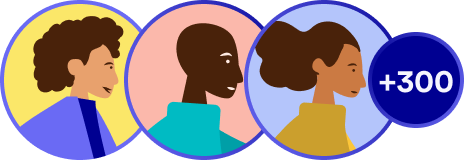
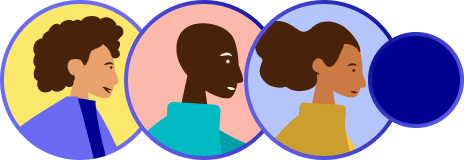
fix(client): :bug: images dynamic stats

Changed region(s): [[0.8147, 0.4375, 0.9957, 0.5938]]

diff --git a/apps/client/src/pages/mission-et-impact.tsx b/apps/client/src/pages/mission-et-impact.tsx
@@ -1,11 +1,13 @@
 import Badge from "@codegouvfr/react-dsfr/Badge";
 import Button from "@codegouvfr/react-dsfr/Button";
 import Card from "@codegouvfr/react-dsfr/Card";
-import { NextPage } from "next";
+import { GetStructureStatisticsResponse, TranslationStatisticsResponse } from "@refugies-info/api-types";
 import { useTranslation } from "next-i18next";
+import { serverSideTranslations } from "next-i18next/serverSideTranslations";
 import Image from "next/image";
 import { useEffect, useState } from "react";
 import { useInView } from "react-intersection-observer";
+import { END } from "redux-saga";
 import CommunityIlluAmbassadeurs from "~/assets/staticPages/mission-et-impact/community-ambassadeurs.png";
 import CommunityIlluCda from "~/assets/staticPages/mission-et-impact/community-cda.png";
 import CommunityIlluDinum from "~/assets/staticPages/mission-et-impact/community-dinum.png";
@@ -46,14 +48,23 @@ import {
   StepContent,
   Title2,
 } from "~/components/Pages/staticPages/common";
-import { Figure, ImpactCol, TeamCard } from "~/components/Pages/staticPages/mission-et-impact";
+import { Figure, ImageCustomFigure, ImpactCol, TeamCard } from "~/components/Pages/staticPages/mission-et-impact";
 import SEO from "~/components/Seo";
 import { useTeamData } from "~/data/useTeamData";
-import { defaultStaticProps } from "~/lib/getDefaultStaticProps";
+import { getLanguageFromLocale } from "~/lib/getLanguageFromLocale";
+import { logger } from "~/logger";
+import { wrapper } from "~/services/configureStore";
+import { fetchThemesActionCreator } from "~/services/Themes/themes.actions";
+import API from "~/utils/API";
 
 export type View = "mission" | "impact" | "users" | "figures" | "team" | "contributors" | "steps";
 
-const MissionImpact: NextPage = () => {
+interface Props {
+  structuresStatistics: GetStructureStatisticsResponse;
+  translationStatistics: TranslationStatisticsResponse;
+}
+
+const MissionImpact = (props: Props) => {
   const { t } = useTranslation();
   const teamData = useTeamData();
 
@@ -308,8 +319,21 @@ const MissionImpact: NextPage = () => {
             <Title2 className="!text-center">{t("MissionImpact.community_title")}</Title2>
             <div className="grid grid-cols-1 md:grid-cols-2 lg:grid-cols-3 gap-10">
               <RICard
-                image={CommunityIlluDispositifs}
-                imageWidth={240}
+                imageComponent={
+                  <div className="relative inline-block">
+                    <Image
+                      src={CommunityIlluDispositifs}
+                      alt=""
+                      width={240}
+                      height={80}
+                      style={{ objectFit: "contain" }}
+                    />
+                    <ImageCustomFigure>
+                      {(props.translationStatistics.nbRedactors || 0) +
+                        (props.structuresStatistics.nbStructureAdmins || 0)}
+                    </ImageCustomFigure>
+                  </div>
+                }
                 title={t("MissionImpact.community_dispositifs_title")}
                 footer={
                   <Badge severity="new" noIcon>
@@ -321,8 +345,12 @@ const MissionImpact: NextPage = () => {
                 <p>{t("MissionImpact.community_dispositifs_subtitle")}</p>
               </RICard>
               <RICard
-                image={CommunityIlluCda}
-                imageWidth={240}
+                imageComponent={
+                  <div className="relative inline-block">
+                    <Image src={CommunityIlluCda} alt="" width={240} height={80} style={{ objectFit: "contain" }} />
+                    <ImageCustomFigure>{props.structuresStatistics.nbCDA || 0}</ImageCustomFigure>
+                  </div>
+                }
                 title={t("MissionImpact.community_cda_title")}
                 footer={
                   <Badge severity="new" noIcon>
@@ -334,8 +362,18 @@ const MissionImpact: NextPage = () => {
                 <p>{t("MissionImpact.community_cda_subtitle")}</p>
               </RICard>
               <RICard
-                image={CommunityIlluTraducteurs}
-                imageWidth={232}
+                imageComponent={
+                  <div className="relative inline-block">
+                    <Image
+                      src={CommunityIlluTraducteurs}
+                      alt=""
+                      width={232}
+                      height={80}
+                      style={{ objectFit: "contain" }}
+                    />
+                    <ImageCustomFigure>{props.translationStatistics.nbTranslators || 0}</ImageCustomFigure>
+                  </div>
+                }
                 title={t("MissionImpact.community_traducteurs_title")}
                 footer={
                   <Badge severity="info" noIcon>
@@ -644,6 +682,32 @@ const MissionImpact: NextPage = () => {
   );
 };
 
-export const getStaticProps = defaultStaticProps;
+export const getStaticProps = wrapper.getStaticProps((store) => async ({ locale }) => {
+  const action = fetchThemesActionCreator();
+  store.dispatch(action);
+  store.dispatch(END);
+  await store.sagaTask?.toPromise();
+
+  let translationStatistics: TranslationStatisticsResponse = {};
+  let structuresStatistics: GetStructureStatisticsResponse = {};
+
+  try {
+    structuresStatistics = await API.getStructuresStatistics({
+      facets: ["nbCDA", "nbStructureAdmins"],
+    });
+    translationStatistics = await API.getTranslationStatistics({ facets: ["nbTranslators", "nbRedactors"] });
+  } catch (e) {
+    logger.error("[index] build page", e);
+  }
+
+  return {
+    props: {
+      ...(await serverSideTranslations(getLanguageFromLocale(locale), ["common"])),
+      structuresStatistics,
+      translationStatistics,
+    },
+    revalidate: 60 * 10,
+  };
+});
 
 export default MissionImpact;

diff --git a/apps/client/src/components/Pages/staticPages/common/Card/Card.tsx b/apps/client/src/components/Pages/staticPages/common/Card/Card.tsx
@@ -10,6 +10,7 @@ interface Props {
   image?: any;
   imageWidth?: number;
   imageHeight?: number;
+  imageComponent?: ReactElement;
   header?: ReactElement;
   footer?: ReactElement;
   footerBottom?: boolean;
@@ -42,6 +43,7 @@ const Card = (props: Props) => {
               style={{ objectFit: "contain" }}
             />
           )}
+          {props.imageComponent}
         </div>
         <h3 className="text-h6 md:text-h5 my-3 text-blue-france">{props.title}</h3>
         <div className={cls("[&_p]:text-large", props.footerBottom && "flex-grow")}>{props.children}</div>
@@ -57,6 +59,7 @@ const Card = (props: Props) => {
       props.footerBottom,
       props.imageWidth,
       props.imageHeight,
+      props.imageComponent,
     ],
   );
 

diff --git a/apps/client/src/components/Pages/staticPages/mission-et-impact/ImageCustomFigure.tsx b/apps/client/src/components/Pages/staticPages/mission-et-impact/ImageCustomFigure.tsx
@@ -1,0 +1,11 @@
+interface Props {
+  children: number;
+}
+
+export const ImageCustomFigure = (props: Props) => {
+  return (
+    <span className="absolute w-[48px] h-[48px] right-0 top-[16px] flex items-center justify-center text-white text-small font-bold leading-none">
+      +{props.children}
+    </span>
+  );
+};

diff --git a/apps/client/src/components/Pages/staticPages/mission-et-impact/index.ts b/apps/client/src/components/Pages/staticPages/mission-et-impact/index.ts
@@ -1,3 +1,4 @@
 export { Figure } from "./Figure";
+export { ImageCustomFigure } from "./ImageCustomFigure";
 export { ImpactCol } from "./ImpactCol";
 export { TeamCard } from "./TeamCard";
